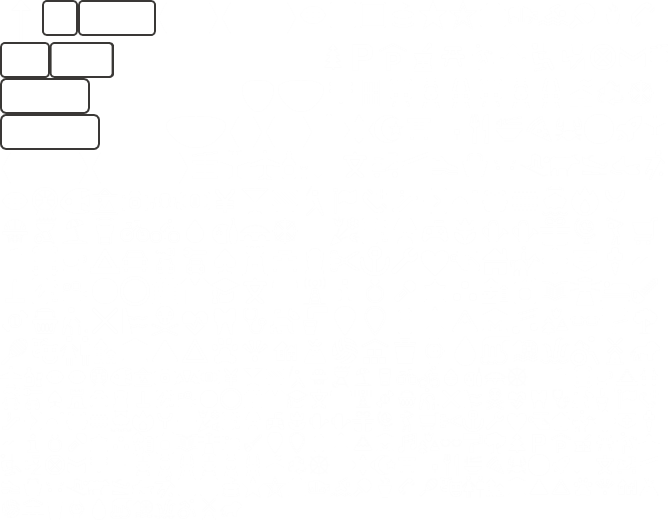
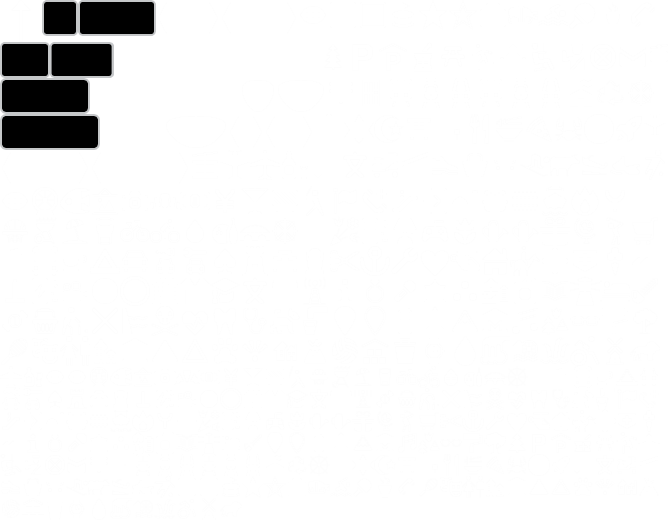
Invert the default symbol

Changed region(s): [[0.0, 0.0, 0.2388, 0.3077]]

diff --git a/bin/whiten.js b/bin/whiten.js
@@ -2,6 +2,19 @@ const fs = require("fs");
 const path = require("path");
 const parser = require("fast-xml-parser");
 const { j2xParser } = require("fast-xml-parser");
+const invertColor = require("invert-color");
+const { join } = require("path");
+
+const invertStyle = (styleText) => {
+  const styleEntries = styleText.split(";").map((kvp) => kvp.split(":"));
+  for (const styleEntry of styleEntries) {
+    const [key, value] = styleEntry;
+    if (key === "color" || key === "fill") {
+      styleEntry[1] = invertColor(value);
+    }
+  }
+  return styleEntries.map((entry) => entry.join(":")).join(";");
+};
 
 // destructive. Append <path fill="#ffffff" />
 const convert = (parent) => {
@@ -19,6 +32,14 @@ const convert = (parent) => {
           }
         } else {
           parent.path["@_fill"] = "#ffffff";
+        }
+      } else if (key === "rect") {
+        if (Array.isArray(parent.rect)) {
+          for (const eachrect of parent.rect) {
+            eachrect["@_style"] = invertStyle(eachrect["@_style"]);
+          }
+        } else {
+          eachrect["@_style"] = invertStyle(eachrect["@_style"]);
         }
       } else {
         convert(parent[key]);
